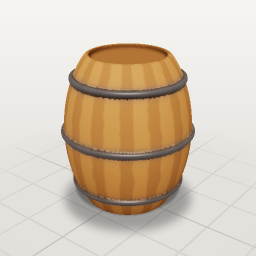
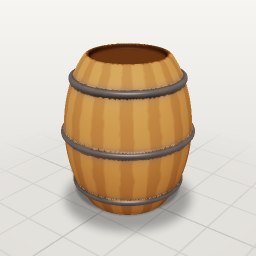
Warn about models that won't read in a game
Three new critics: touching parts whose colors are meant to differ but
blend together, details too small to see at settings.screenHeight, and
creatures whose front and side silhouettes are the same.

Closes #27
Closes #28
Closes #29

Changed region(s): [[0.3125, 0.1562, 0.6875, 0.25]]

diff --git a/src/critic/readability.ts b/src/critic/readability.ts
@@ -1,0 +1,172 @@
+/**
+ * Readability critics: does the model read at the size and angle a player
+ * actually sees it?
+ *
+ * - neighbouring parts whose colors are meant to differ but blend together
+ * - details too small for the game camera (settings.screenHeight)
+ * - silhouettes that look the same from the front and the side
+ */
+
+import type { Build } from '../core/build.js';
+import { rgbToHex, srgbToLinear, type RGB } from '../core/math.js';
+import { modelMask, normalize, register } from '../reference.js';
+import { renderTiles, type View } from '../render/views.js';
+import type { Issue } from './critics.js';
+
+/* ------------------------------------------------------------ color math */
+
+function toLab(c: RGB): [number, number, number] {
+	const [r, g, b] = c.map(srgbToLinear);
+	const x = (0.4124 * r + 0.3576 * g + 0.1805 * b) / 0.95047;
+	const y = 0.2126 * r + 0.7152 * g + 0.0722 * b;
+	const z = (0.0193 * r + 0.1192 * g + 0.9505 * b) / 1.08883;
+	const f = (t: number) => (t > 216 / 24389 ? Math.cbrt(t) : (841 / 108) * t + 4 / 29);
+	return [116 * f(y) - 16, 500 * (f(x) - f(y)), 200 * (f(y) - f(z))];
+}
+
+function fromLab([L, a, b]: [number, number, number]): RGB {
+	const fy = (L + 16) / 116, fx = fy + a / 500, fz = fy - b / 200;
+	const inv = (t: number) => (t ** 3 > 216 / 24389 ? t ** 3 : (108 / 841) * (t - 4 / 29));
+	const x = inv(fx) * 0.95047, y = inv(fy), z = inv(fz) * 1.08883;
+	const lin = [3.2406 * x - 1.5372 * y - 0.4986 * z, -0.9689 * x + 1.8758 * y + 0.0415 * z, 0.0557 * x - 0.204 * y + 1.057 * z];
+	return lin.map((v) => {
+		const c = Math.max(0, Math.min(1, v));
+		return c <= 0.0031308 ? c * 12.92 : 1.055 * Math.pow(c, 1 / 2.4) - 0.055;
+	}) as RGB;
+}
+
+const luminance = (c: RGB) => {
+	const [r, g, b] = c.map(srgbToLinear);
+	return 0.2126 * r + 0.7152 * g + 0.0722 * b;
+};
+
+export const contrastRatio = (a: RGB, b: RGB) => {
+	const la = luminance(a), lb = luminance(b);
+	return (Math.max(la, lb) + 0.05) / (Math.min(la, lb) + 0.05);
+};
+
+export const deltaE = (a: RGB, b: RGB) => {
+	const p = toLab(a), q = toLab(b);
+	return Math.hypot(p[0] - q[0], p[1] - q[1], p[2] - q[2]);
+};
+
+/* ---------------------------------------------------- blending colors */
+
+export function colorBlend(b: Build): Issue[] {
+	const c = b.compiled;
+	const body = b.meshes.find((m) => m.prim < 0);
+	if (!body) return [];
+	// average color per part from the vertices it owns (patterns included)
+	const sum = new Map<number, [number, number, number, number]>();
+	for (let v = 0; v < body.vertPrim.length; v++) {
+		const s = sum.get(body.vertPrim[v]) ?? [0, 0, 0, 0];
+		s[0] += body.colors[v * 3];
+		s[1] += body.colors[v * 3 + 1];
+		s[2] += body.colors[v * 3 + 2];
+		s[3]++;
+		sum.set(body.vertPrim[v], s);
+	}
+	const avg = (p: number): RGB => {
+		const s = sum.get(p)!;
+		return [s[0] / s[3], s[1] / s[3], s[2] / s[3]];
+	};
+	// parts that share an edge on the surface, weighted by how long it is
+	const border = new Map<string, number>();
+	const I = body.indices;
+	for (let t = 0; t < I.length; t += 3)
+		for (let e = 0; e < 3; e++) {
+			const a = body.vertPrim[I[t + e]], z = body.vertPrim[I[t + ((e + 1) % 3)]];
+			if (a === z) continue;
+			const key = a < z ? `${a}|${z}` : `${z}|${a}`;
+			border.set(key, (border.get(key) ?? 0) + 1);
+		}
+	const out: Issue[] = [];
+	const sameBase = (a: number, z: number) => {
+		const p = c.prims[a].color, q = c.prims[z].color;
+		return Math.abs(p[0] - q[0]) + Math.abs(p[1] - q[1]) + Math.abs(p[2] - q[2]) < 1e-3;
+	};
+	for (const [key, n] of [...border.entries()].sort((x, y) => y[1] - x[1])) {
+		if (n < 12) continue;
+		const [a, z] = key.split('|').map(Number);
+		// same color on purpose (a nose in skin on a head in skin) is one surface by design
+		if (sameBase(a, z)) continue;
+		const ca = avg(a), cz = avg(z);
+		const dE = deltaE(ca, cz), cr = contrastRatio(ca, cz);
+		if (dE >= 10 || cr >= 1.35) continue;
+		// suggest a lighter or darker version of the smaller part
+		const small = (sum.get(a)?.[3] ?? 0) < (sum.get(z)?.[3] ?? 0) ? a : z;
+		const other = small === a ? cz : ca;
+		const lab = toLab(small === a ? ca : cz);
+		const dir = lab[0] >= toLab(other)[0] ? 1 : -1;
+		const suggestion = rgbToHex(fromLab([Math.max(5, Math.min(95, lab[0] + dir * 22)), lab[1], lab[2]]));
+		out.push({
+			severity: 'warn',
+			code: 'colors-blend',
+			message: `${c.prims[a].id} and ${c.prims[z].id} touch and their colors are too close to tell apart (ΔE ${dE.toFixed(1)}, contrast ${cr.toFixed(2)}:1) — they will read as one blob; try ${suggestion} for ${c.prims[small].id}, or give them the same color on purpose`,
+			parts: [c.prims[a].id, c.prims[z].id]
+		});
+		if (out.length >= 4) break;
+	}
+	return out;
+}
+
+/* ------------------------------------------------ game-camera detail */
+
+export function tinyDetail(b: Build, screenHeight: number): Issue[] {
+	const c = b.compiled;
+	const views: View[] = ['front', 'left', 'three_quarter'];
+	// the tile frames the model at about 1/1.2 of its height
+	const size = Math.max(16, Math.round(screenHeight * 1.2));
+	const full = renderTiles(b, { views, size: 256, ids: true, ground: false, ssaa: 1 }).tiles;
+	const game = renderTiles(b, { views, size, ids: true, ground: false, ssaa: 1 }).tiles;
+	const count = (tiles: typeof game) => {
+		const best = new Map<number, number>();
+		for (const t of tiles) {
+			const m = new Map<number, number>();
+			for (const id of t.ids!) if (id >= 0) m.set(id, (m.get(id) ?? 0) + 1);
+			for (const [id, n] of m) best.set(id, Math.max(best.get(id) ?? 0, n));
+		}
+		return best;
+	};
+	const seenFull = count(full), seenGame = count(game);
+	const out: Issue[] = [];
+	for (const [id, n] of seenFull) {
+		const pr = c.prims[id];
+		if (!pr || n < 30) continue;
+		const g = seenGame.get(id) ?? 0;
+		if (g >= 4) continue;
+		out.push({
+			severity: 'warn',
+			code: 'tiny-detail',
+			message: g
+				? `${pr.id} covers at most ${g} px when the model is ${screenHeight} px tall — a player will not see it; make it bigger or bolder, or drop it and save the triangles`
+				: `${pr.id} disappears entirely when the model is ${screenHeight} px tall — make it bigger or bolder, or drop it`,
+			parts: [pr.id]
+		});
+	}
+	return out.slice(0, 6);
+}
+
+/* ------------------------------------------ same silhouette everywhere */
+
+export function sameSilhouette(b: Build): Issue[] {
+	const iou = (p: View, q: View) => {
+		const a = normalize(modelMask(b, p, 128, 1), 100, 2250);
+		const r = register(a, normalize(modelMask(b, q, 128, 1), 100, 2250));
+		let i = 0, u = 0;
+		for (let k = 0; k < a.on.length; k++) {
+			if (a.on[k] && r.on[k]) i++;
+			if (a.on[k] || r.on[k]) u++;
+		}
+		return u ? i / u : 0;
+	};
+	const fs = iou('front', 'left');
+	if (fs < 0.93) return [];
+	// things that walk, swim or fly turn in front of the player; round props are fine
+	const creature = b.compiled.prims.some((p) => ['leg', 'tail', 'wing'].includes(p.role));
+	return [{
+		severity: creature ? 'warn' : 'info',
+		code: 'same-silhouette',
+		message: `the front and side silhouettes are nearly the same (overlap ${fs.toFixed(2)}) — the model will read the same as it turns${creature ? '; give it depth from the side: a snout or nose, a tail, a backpack, feet that point forward' : ' (fine for round props)'}`
+	}];
+}

diff --git a/src/test/readability.test.ts b/src/test/readability.test.ts
@@ -1,0 +1,54 @@
+import { describe, expect, it } from 'vitest';
+import { buildScene } from '../core/build.js';
+import { applyOps } from '../core/ops.js';
+import { critique } from '../critic/critics.js';
+import { contrastRatio, deltaE } from '../critic/readability.js';
+import { getTemplate } from '../templates/index.js';
+import { ball, scene } from './helpers.js';
+
+const codes = (s: Parameters<typeof buildScene>[0]) => critique(buildScene(s)).issues;
+
+describe('color math', () => {
+	it('matches known values', () => {
+		expect(contrastRatio([0, 0, 0], [1, 1, 1])).toBeCloseTo(21, 1);
+		expect(deltaE([1, 0, 0], [1, 0, 0])).toBe(0);
+		expect(deltaE([1, 1, 1], [0, 0, 0])).toBeCloseTo(100, 0);
+	});
+});
+
+describe('readability critics', () => {
+	const pair = (a: string, b: string) => scene([
+		{ id: 'crate', shape: { type: 'box', size: [0.5, 0.4, 0.4] }, material: { color: a } },
+		{ id: 'lid', shape: { type: 'box', size: [0.52, 0.08, 0.42] }, attach: { to: 'crate', side: 'top', embed: 0.3 }, material: { color: b } }
+	]);
+
+	it('flags neighbours whose colors differ but cannot be told apart, and suggests one', () => {
+		const i = codes(pair('#7a5a3a', '#7e5d3c')).find((x) => x.code === 'colors-blend');
+		expect(i?.parts).toEqual(expect.arrayContaining(['crate', 'lid']));
+		expect(i?.message).toMatch(/try #[0-9a-f]{6}/);
+	});
+
+	it('leaves the same color on purpose, and clearly different colors, alone', () => {
+		expect(codes(pair('#7a5a3a', '#7a5a3a')).some((x) => x.code === 'colors-blend')).toBe(false);
+		expect(codes(pair('#7a5a3a', '#d8c070')).some((x) => x.code === 'colors-blend')).toBe(false);
+	});
+
+	it('flags details a player cannot see at the game camera size', () => {
+		const at = (h: number) => {
+			const r = applyOps(getTemplate('biped')!.scene, [{ op: 'set_settings', set: { screenHeight: h } }]);
+			if (!r.ok) throw new Error(r.error);
+			return critique(buildScene(r.scene)).issues.filter((x) => x.code === 'tiny-detail').flatMap((x) => x.parts ?? []);
+		};
+		expect(at(20)).toEqual(expect.arrayContaining(['eye']));
+		expect(at(512)).toEqual([]);
+	});
+
+	it('warns when a creature looks the same from the front and the side', () => {
+		const legs = [[0.6, 0.6], [-0.6, 0.6], [0.6, -0.6], [-0.6, -0.6]].map(([u, v], k) => ({
+			id: `leg${k}`, role: 'leg', shape: { type: 'capsule' as const, length: 0.3, radius: 0.05 }, attach: { to: 'body', side: 'bottom' as const, offset: [u, v] as [number, number] }
+		}));
+		const issue = codes(scene([ball('body', 0.3), ...legs])).find((x) => x.code === 'same-silhouette');
+		expect(issue?.severity).toBe('warn');
+		expect(codes(getTemplate('quadruped')!.scene).some((x) => x.code === 'same-silhouette')).toBe(false);
+	});
+});

diff --git a/src/templates/index.ts b/src/templates/index.ts
@@ -190,12 +190,12 @@ const chest = S('Treasure chest', {
 
 const barrel = S('Barrel', {
 	notes: 'Wooden barrel ~0.8 m: an ellipsoid trimmed flat by intersect, vertical staves, iron hoops.',
-	palette: { wood: '#9a6a3f', wood_dark: '#7a5230', iron: '#5c5e63' },
+	palette: { wood: '#9a6a3f', wood_dark: '#7a5230', lid: '#4a2e18', iron: '#5c5e63' },
 	settings: { resolution: 110 },
 	parts: [
 		{ id: 'belly', role: 'body', shape: { type: 'ellipsoid', radii: [0.33, 0.52, 0.33] }, position: [0, 0.4, 0], material: { color: 'wood', roughness: 0.85 }, pattern: { kind: 'stripes', color: 'wood_dark', scale: 0.07, amount: 0.55, axis: 'around' } },
 		{ id: 'trim', shape: { type: 'cylinder', height: 0.8, radius: 0.5 }, position: [0, 0.4, 0], op: 'intersect', blend: 0.015 },
-		{ id: 'head', shape: { type: 'cylinder', height: 0.06, radius: 0.19, rounding: 0.01 }, position: [0, 0.8, 0], op: 'carve', material: { color: 'wood_dark' } },
+		{ id: 'head', shape: { type: 'cylinder', height: 0.06, radius: 0.19, rounding: 0.01 }, position: [0, 0.8, 0], op: 'carve', material: { color: 'lid' } },
 		{ id: 'hoop_top', shape: { type: 'torus', radius: 0.279, tube: 0.017 }, position: [0, 0.68, 0], material: { color: 'iron', metalness: 0.9, roughness: 0.45 } },
 		{ id: 'hoop_mid', shape: { type: 'torus', radius: 0.33, tube: 0.017 }, position: [0, 0.4, 0], material: { color: 'iron', metalness: 0.9, roughness: 0.45 } },
 		{ id: 'hoop_bottom', shape: { type: 'torus', radius: 0.279, tube: 0.017 }, position: [0, 0.12, 0], material: { color: 'iron', metalness: 0.9, roughness: 0.45 } }

diff --git a/src/core/schema.ts b/src/core/schema.ts
@@ -235,6 +235,7 @@ export const Settings = z.strictObject({
 	ground: z.enum(['auto', 'none']).optional().describe('auto lifts/drops the model so it stands on y=0 (default)'),
 	symmetry: z.enum(['x', 'none']).optional().describe('declare mirror symmetry so critics check it'),
 	budget: z.number().int().min(100).max(2_000_000).optional().describe('triangle budget for critics'),
+	screenHeight: z.number().int().min(16).max(2048).optional().describe('how tall the model appears in the game, in pixels; critics flag details a player cannot see at that size'),
 	ao: z.boolean().optional().describe('compute ambient occlusion into vertex shading (default true)'),
 	edges: z.enum(['soft', 'sharp']).optional().describe('soft (default) rounds edges to the cell size, good for organic shapes; sharp keeps real corners and edges (crates, blades, buildings, robots)'),
 	rig: z.enum(['auto', 'none']).optional().describe('auto: skeleton from parts when clips exist')

diff --git a/src/critic/critics.ts b/src/critic/critics.ts
@@ -7,6 +7,7 @@
  */
 
 import { bodyField, primDist } from '../core/compile.js';
+import { colorBlend, sameSilhouette, tinyDetail } from './readability.js';
 import type { Build, MeshData } from '../core/build.js';
 import type { V3 } from '../core/math.js';
 
@@ -213,6 +214,11 @@ export function critique(b: Build): Report {
 			}
 		}
 	}
+
+	/* ------------------------------------------------------- readability */
+	issues.push(...colorBlend(b));
+	if (c.scene.settings?.screenHeight) issues.push(...tinyDetail(b, c.scene.settings.screenHeight));
+	issues.push(...sameSilhouette(b));
 
 	/* ------------------------------------------------------------ budget */
 	const budget = c.scene.settings?.budget;

diff --git a/src/guide.ts b/src/guide.ts
@@ -93,7 +93,8 @@ set_settings{set} · set_palette{set} · set_meta{name?, notes?} · replace{scen
 ## Settings
 resolution (cells on the longest axis, default 96; raise for thin parts) · edges soft|sharp
 (sharp keeps real corners: crates, blades, buildings, robots) · ground auto|none ·
-symmetry "x" (critics check it) · budget (triangle budget) · ao · rig auto|none.
+symmetry "x" (critics check it) · budget (triangle budget) · screenHeight (px the model is tall in
+the game; critics flag details a player cannot see) · ao · rig auto|none.
 
 ## Tips
 - Recolor with the palette: change \`palette.skin\` once.

diff --git a/src/reference.ts b/src/reference.ts
@@ -63,8 +63,8 @@ export function referenceMask(img: Rgba): Mask {
 	return { w, h, on };
 }
 
-export function modelMask(b: Build, view: View, size = 384): Mask {
-	const { tiles } = renderTiles(b, { views: [view], size, ids: true, ground: false });
+export function modelMask(b: Build, view: View, size = 384, ssaa = 2): Mask {
+	const { tiles } = renderTiles(b, { views: [view], size, ids: true, ground: false, ssaa });
 	const ids = tiles[0].ids!;
 	const on = new Uint8Array(ids.length);
 	for (let i = 0; i < ids.length; i++) on[i] = ids[i] >= 0 ? 1 : 0;

diff --git a/src/render/views.ts b/src/render/views.ts
@@ -88,6 +88,8 @@ export interface SheetOptions {
 	title?: string;
 	/** return per-pixel part ids with each tile */
 	ids?: boolean;
+	/** supersampling (default 2) */
+	ssaa?: number;
 }
 
 export interface Sheet {
@@ -121,7 +123,7 @@ export function renderTiles(b: Build, o: SheetOptions = {}): { tiles: Image[]; n
 			groundRadius: foot * 1.6,
 			groundCenter: [(bounds.min[0] + bounds.max[0]) / 2, (bounds.min[2] + bounds.max[2]) / 2],
 			shadow: true,
-			ssaa: 2,
+			ssaa: o.ssaa ?? 2,
 			partColors: (i) => partColor(i),
 			ids: o.ids
 		})

diff --git a/docs/critics.md b/docs/critics.md
@@ -17,6 +17,9 @@ the defect on purpose and checks that it is caught.
 | `tips-over` | warn | the center of mass is outside the ground-contact footprint. The message lists what touches the ground | if a small part hangs below the base, raise it; otherwise widen the base |
 | `over-budget` | warn | the working mesh exceeds `settings.budget`. The message suggests a resolution | lower resolution, or rely on export's `triangles` |
 | `fused-unrelated` | warn | two parts that move on their own touch and fuse (a hand against a leg), so the bridge will stretch in animation | move them apart by more than their blend radius, or make one separate |
+| `colors-blend` | warn | two touching parts have different colors that are too close to tell apart (ΔE under 10 and contrast under 1.35:1), so they read as one blob. Parts given the same base color on purpose are left alone | use the suggested lighter or darker color, or make them the same on purpose |
+| `tiny-detail` | warn | with `settings.screenHeight`, a part covers fewer than 4 pixels (or vanishes) when the model is that tall on screen | make it bigger or bolder, or drop it and save the triangles |
+| `same-silhouette` | warn / info | the front and side silhouettes overlap by more than 93%, so the model reads the same as it turns. A warning for things with legs, tails or wings, a note for props | add depth seen from the side: a snout, a tail, a backpack, feet that point forward |
 | `placement` | warn | an attach offset landed outside the target's outline and was snapped to the surface | use a smaller offset |
 | `speck` | info | a tiny loose fragment where two surfaces almost touch | add `blend` or `embed` |
 | `open-edges` | info | more than 0.2% of edges are non-manifold | harmless for games; raise resolution for 3D printing |

diff --git a/docs/reference.md b/docs/reference.md
@@ -27,6 +27,7 @@ Conventions: meters, +Y up, the model faces +Z, the model's left is +X, rotation
 | `ground` | `auto` · `none` | auto lifts/drops the model so it stands on y=0 (default) |
 | `symmetry` | `x` · `none` | declare mirror symmetry so critics check it |
 | `budget` | integer (≥100, ≤2000000) | triangle budget for critics |
+| `screenHeight` | integer (≥16, ≤2048) | how tall the model appears in the game, in pixels; critics flag details a player cannot see at that size |
 | `ao` | boolean | compute ambient occlusion into vertex shading (default true) |
 | `edges` | `soft` · `sharp` | soft (default) rounds edges to the cell size, good for organic shapes; sharp keeps real corners and edges (crates, blades, buildings, robots) |
 | `rig` | `auto` · `none` | auto: skeleton from parts when clips exist |

diff --git a/docs/templates.md b/docs/templates.md
@@ -205,7 +205,7 @@ Wooden barrel ~0.8 m: an ellipsoid trimmed flat by intersect, vertical staves, i
 - tags: prop, container
 - parts: `belly`, `trim`, `head`, `hoop_top`, `hoop_mid`, `hoop_bottom`
 - roles: body
-- palette: `wood` #9a6a3f, `wood_dark` #7a5230, `iron` #5c5e63
+- palette: `wood` #9a6a3f, `wood_dark` #7a5230, `lid` #4a2e18, `iron` #5c5e63
 
 ## Potion — `potion`
 
